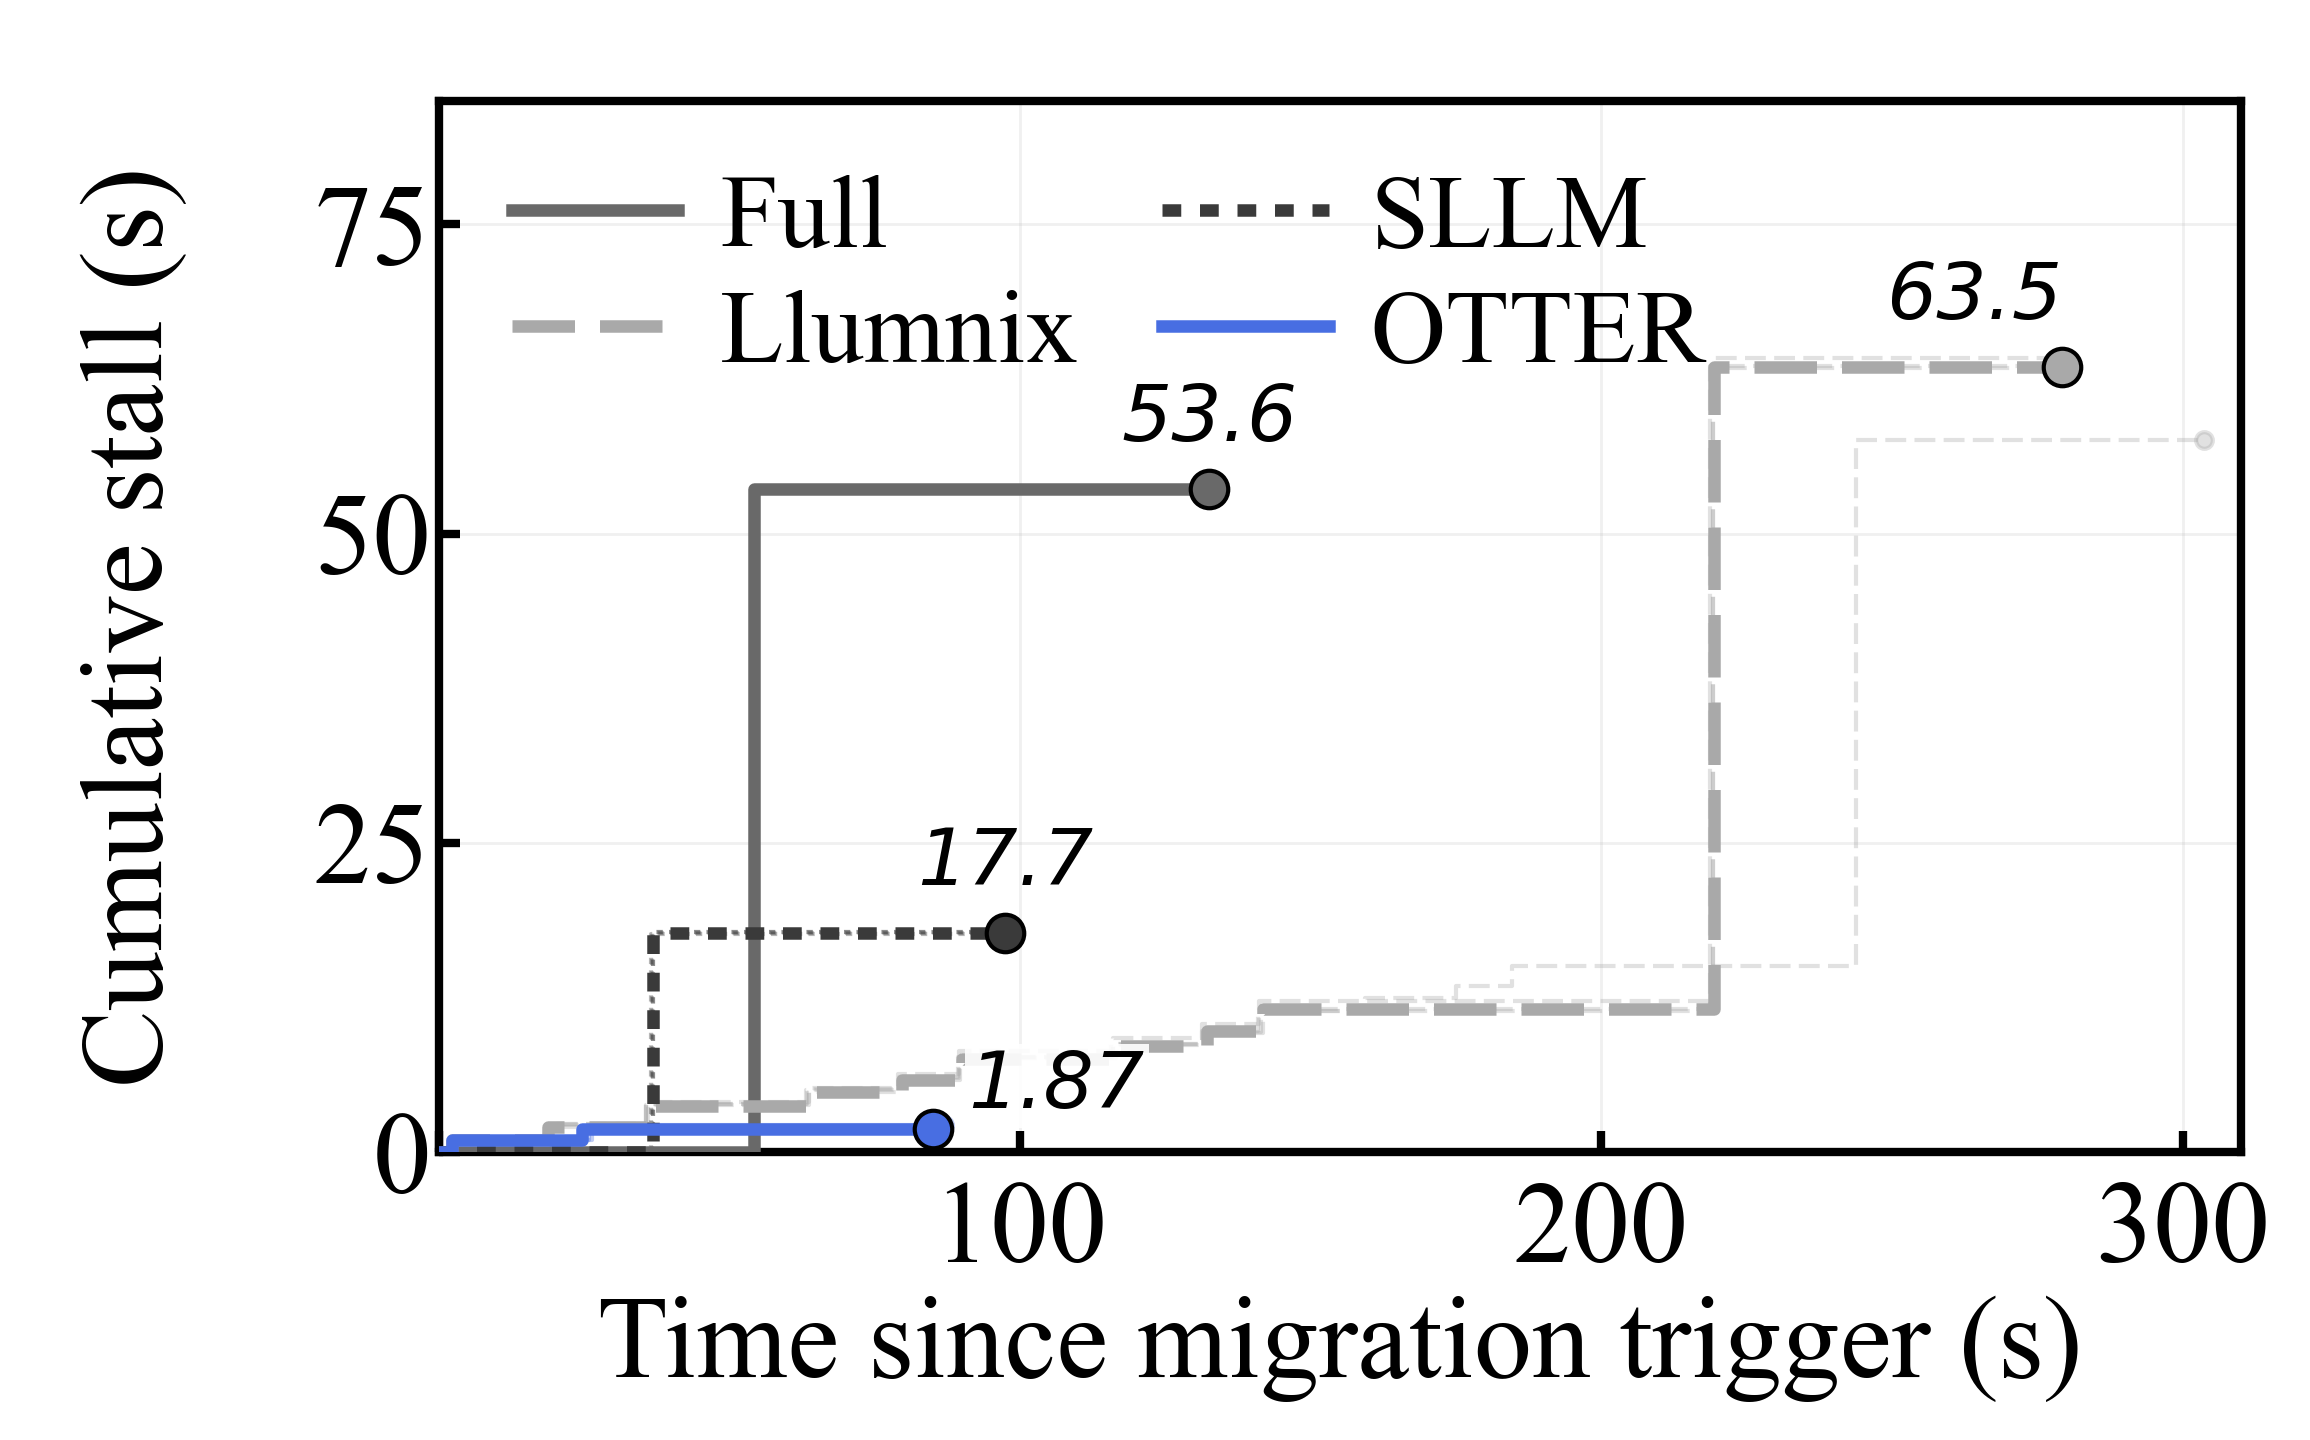
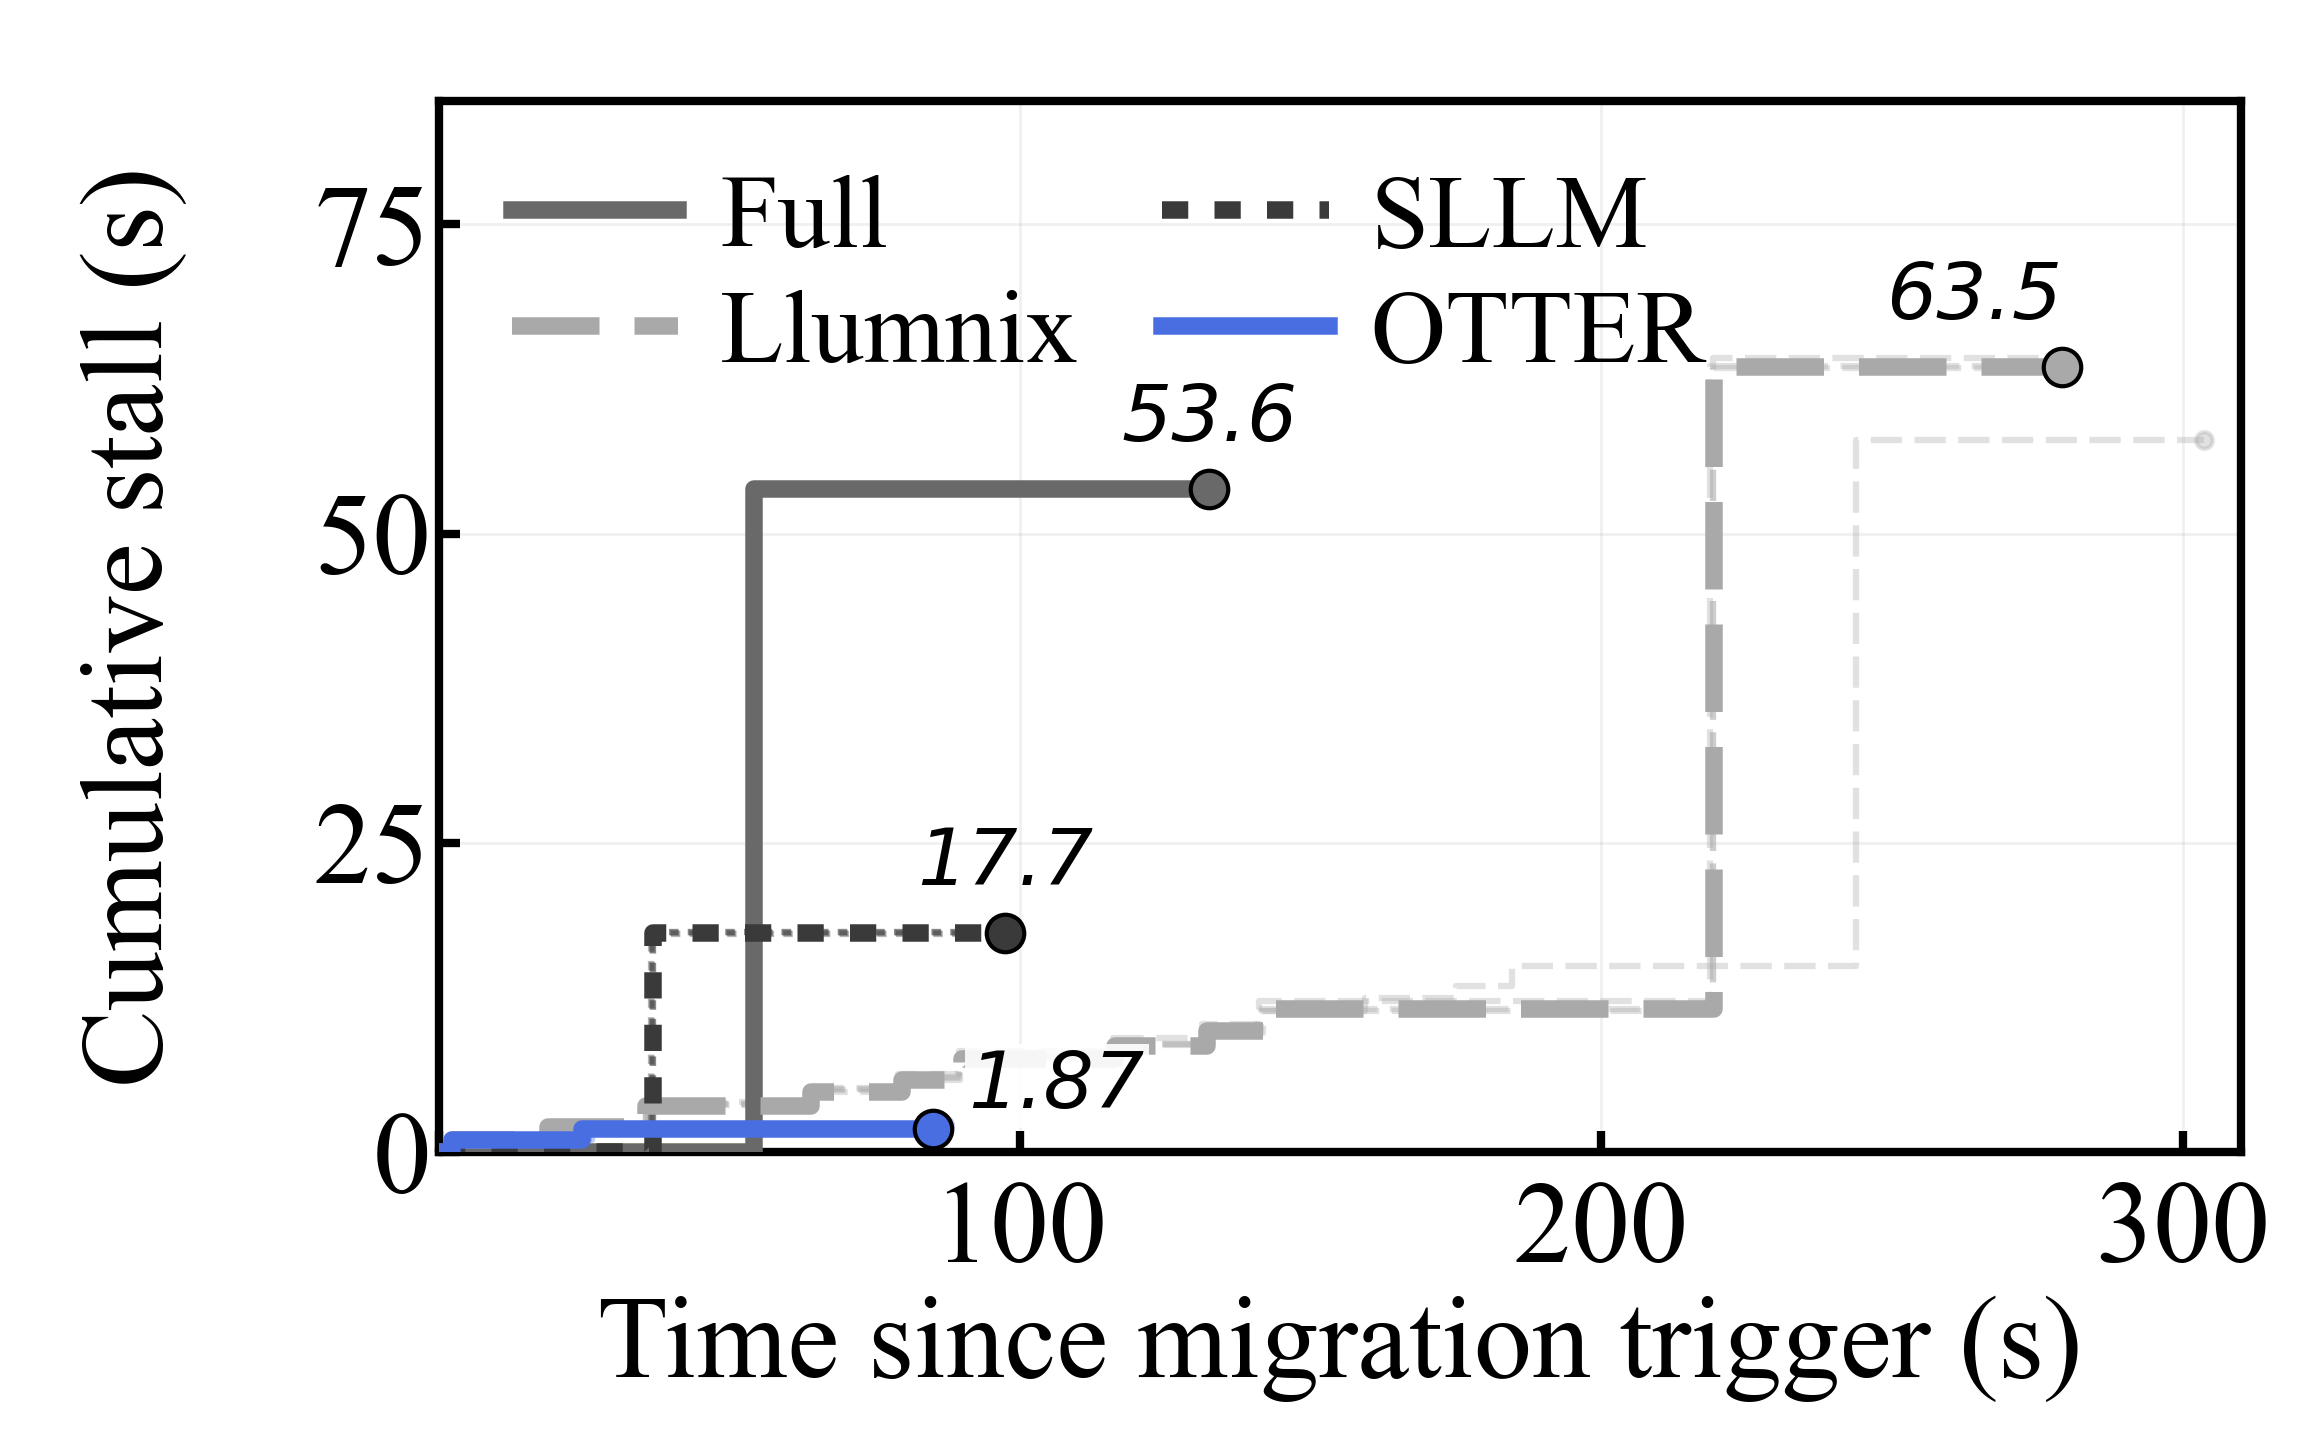
Fig. 8 per user 2026-11-03: 8b bar width 0.36 -> 0.30; 8a line width 3.0 -> 4.2 (median run and legend), 1.0 -> 1.5 (other runs); fonts unchanged

diff --git a/tools/eval/plot_fig8.py b/tools/eval/plot_fig8.py
@@ -62,7 +62,7 @@ def panel_a(res, w, out: Path):
             t, s = np.array(r["curve"]).T
             assert t[-1] < x1 and s[-1] < y1, (w, m, t[-1], s[-1])
             main = r is best
-            ax.step(t, s, where="post", color=col, ls=ls, lw=3.0 if main else 1.0, alpha=1 if main else 0.35, zorder=4 if main else 2)
+            ax.step(t, s, where="post", color=col, ls=ls, lw=4.2 if main else 1.5, alpha=1 if main else 0.35, zorder=4 if main else 2)
             ax.plot(t[-1], s[-1], "o", ms=9 if main else 4, color=col, mec="black" if main else col, mew=1.0, alpha=1 if main else 0.35,
                     zorder=5 if main else 2)
         t_end, s_end = best["curve"][-1]
@@ -80,7 +80,7 @@ def panel_a(res, w, out: Path):
     ax.grid(axis="x", alpha=0.18, linewidth=0.7)
     ax.set_xticks([0, 100, 200, 300])
     ax.set_xticklabels(["", "100", "200", "300"])   # the y axis' 0 marks the corner
-    hs = [Line2D([], [], color=LINE[m][0], ls=LINE[m][1], lw=3.0, label=TICK_LABEL[m]) for m in METHODS]
+    hs = [Line2D([], [], color=LINE[m][0], ls=LINE[m][1], lw=4.2, label=TICK_LABEL[m]) for m in METHODS]
     ax.legend(handles=hs, loc="upper left", ncol=2, frameon=False, fontsize=LEGEND, handlelength=1.6, handletextpad=0.4,
               columnspacing=0.8, labelspacing=0.2, borderaxespad=0.3)
     save(fig, out)
@@ -90,7 +90,7 @@ def panel_a(res, w, out: Path):
 def panel_b(b, out: Path):
     fig = plt.figure(figsize=FIG_SIZE)
     ax = fig.add_axes(AXES_POS)
-    W, OFF = 0.36, 0.20
+    W, OFF = 0.30, 0.20   # user 2026-11-03: narrower bars (0.36 before)
     rec = {}
     for i, w in enumerate(WORKLOADS):
         for j, (key, col, name) in enumerate((("native_B", DIM_GRAY, "Native"), ("otter_per_call", BLUE, "OTTER"))):
